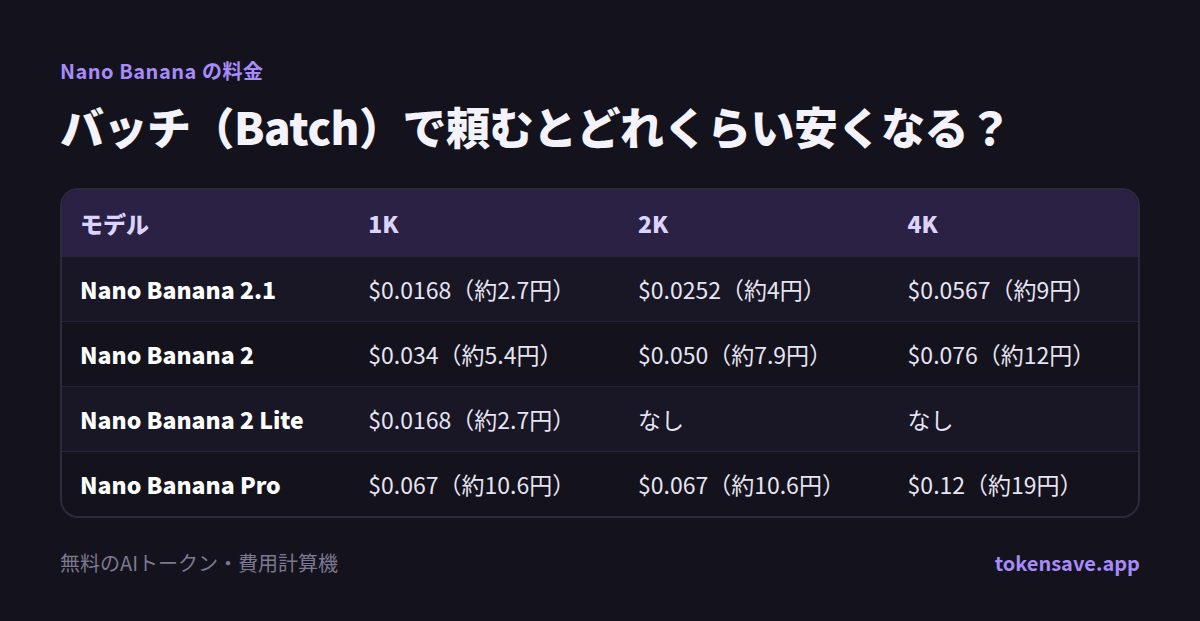
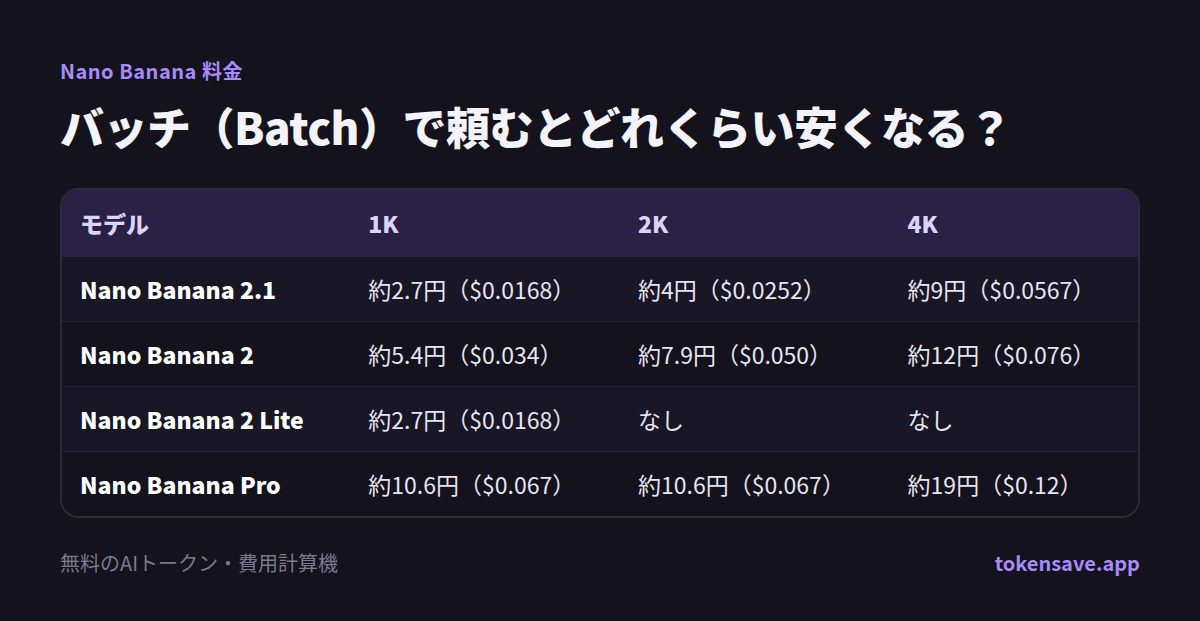
Japanese Nano Banana post: show yen first with USD in parentheses
Claude-Session: https://claude.ai/code/session_0114J8oCXExe9ebHvH1UevYH

diff --git a/ja/blog/nano-banana-ryoukin.html b/ja/blog/nano-banana-ryoukin.html
@@ -138,10 +138,10 @@
 </tr>
 </tbody>
 </table></div>
-<p>初代 Nano Banana（gemini-2.5-flash-image）は公式ドキュメントに「2026年10月2日に終了」と書かれていて、いまは API で使えません。古い記事にある「1枚 $0.039」はこのモデルの料金なので、今の料金とは違います。どのモデルで作った画像にも、Google の SynthID 透かし（目に見えない識別情報）が入ります。</p>
+<p>初代 Nano Banana（gemini-2.5-flash-image）は公式ドキュメントに「2026年10月2日に終了」と書かれていて、いまは API で使えません。古い記事にある「1枚 0.039ドル」はこのモデルの料金なので、今の料金とは違います。どのモデルで作った画像にも、Google の SynthID 透かし（目に見えない識別情報）が入ります。</p>
 <h2>Nano Banana API の料金は1枚いくら？</h2>
 <p><img loading="lazy" width="1200" height="596" alt="Nano Banana API の料金は1枚いくら？: モデル, 0.5K, 1K, 2K, 4K" src="/nano-banana-ryoukin-api-ja.jpg" /></p>
-<p>Google は画像の出力もトークンで計算します。たとえば Nano Banana 2.1 は画像出力100万トークンあたり $30 で、1K（1024×1024）の画像1枚が1,120トークンなので、1枚 $0.0336 になります。こうして換算した1枚あたりの料金は次のとおりです（標準リクエスト）。</p>
+<p>Google は画像の出力もトークンで計算します。たとえば Nano Banana 2.1 は画像出力100万トークンあたり30ドルで、1K（1024×1024）の画像1枚が1,120トークンなので、1枚0.0336ドル（約5.3円）になります。こうして換算した1枚あたりの料金は次のとおりです（標準リクエスト）。</p>
 <div class="overflow-x-auto"><table>
 <thead>
 <tr>
@@ -156,37 +156,37 @@
 <tr>
 <td>Nano Banana 2.1</td>
 <td>なし</td>
-<td>$0.0336（約5.3円）</td>
-<td>$0.0504（約8円）</td>
-<td>$0.113（約18円）</td>
+<td>約5.3円（$0.0336）</td>
+<td>約8円（$0.0504）</td>
+<td>約18円（$0.113）</td>
 </tr>
 <tr>
 <td>Nano Banana 2</td>
-<td>$0.045（約7.1円）</td>
-<td>$0.067（約10.6円）</td>
-<td>$0.101（約16円）</td>
-<td>$0.151（約24円）</td>
+<td>約7.1円（$0.045）</td>
+<td>約10.6円（$0.067）</td>
+<td>約16円（$0.101）</td>
+<td>約24円（$0.151）</td>
 </tr>
 <tr>
 <td>Nano Banana 2 Lite</td>
 <td>なし</td>
-<td>$0.0336（約5.3円）</td>
+<td>約5.3円（$0.0336）</td>
 <td>なし</td>
 <td>なし</td>
 </tr>
 <tr>
 <td>Nano Banana Pro</td>
 <td>なし</td>
-<td>$0.134（約21円）</td>
-<td>$0.134（約21円）</td>
-<td>$0.24（約38円）</td>
+<td>約21円（$0.134）</td>
+<td>約21円（$0.134）</td>
+<td>約38円（$0.24）</td>
 </tr>
 </tbody>
 </table></div>
 <p>注目したい点がいくつかあります。</p>
 <ul>
-<li><strong>2.1 のほうが 2 より安い。</strong> 新しいモデルなのに、1K で $0.067 から $0.0336 に下がりました。そのかわり入力料金は100万トークンあたり $0.50 から $1.50 に上がっています。参考画像を何枚も入れて長い指示を書く編集作業なら、入力の費用も合わせて見ておく必要があります。</li>
-<li><strong>2.1 と Lite は 1K の料金が同じ。</strong> どちらも $0.0336 です。Lite は入力が100万トークンあたり $0.25 と安くて速いものの、1K しか作れず、複数枚の参照や対話しながらの修正には向かないと Google が書いています。</li>
+<li><strong>2.1 のほうが 2 より安い。</strong> 新しいモデルなのに、1K で0.067ドルから0.0336ドルに下がりました。そのかわり入力料金は100万トークンあたり0.50ドルから1.50ドルに上がっています。参考画像を何枚も入れて長い指示を書く編集作業なら、入力の費用も合わせて見ておく必要があります。</li>
+<li><strong>2.1 と Lite は 1K の料金が同じ。</strong> どちらも0.0336ドルです。Lite は入力が100万トークンあたり0.25ドルと安くて速いものの、1K しか作れず、複数枚の参照や対話しながらの修正には向かないと Google が書いています。</li>
 <li><strong>Pro は 1K と 2K が同じ料金。</strong> Pro を使うなら 2K で受け取るほうが得です。</li>
 <li><strong>4K は 2.1 でも1枚約18円。</strong> Web や SNS 用なら 1K〜2K で足りることが多いです。</li>
 </ul>
@@ -205,31 +205,31 @@
 <tbody>
 <tr>
 <td>Nano Banana 2.1</td>
-<td>$0.0168（約2.7円）</td>
-<td>$0.0252（約4円）</td>
-<td>$0.0567（約9円）</td>
+<td>約2.7円（$0.0168）</td>
+<td>約4円（$0.0252）</td>
+<td>約9円（$0.0567）</td>
 </tr>
 <tr>
 <td>Nano Banana 2</td>
-<td>$0.034（約5.4円）</td>
-<td>$0.050（約7.9円）</td>
-<td>$0.076（約12円）</td>
+<td>約5.4円（$0.034）</td>
+<td>約7.9円（$0.050）</td>
+<td>約12円（$0.076）</td>
 </tr>
 <tr>
 <td>Nano Banana 2 Lite</td>
-<td>$0.0168（約2.7円）</td>
+<td>約2.7円（$0.0168）</td>
 <td>なし</td>
 <td>なし</td>
 </tr>
 <tr>
 <td>Nano Banana Pro</td>
-<td>$0.067（約10.6円）</td>
-<td>$0.067（約10.6円）</td>
-<td>$0.12（約19円）</td>
+<td>約10.6円（$0.067）</td>
+<td>約10.6円（$0.067）</td>
+<td>約19円（$0.12）</td>
 </tr>
 </tbody>
 </table></div>
-<p>Nano Banana 2 は Batch なら 0.5K も $0.022（約3.5円）で作れます。商品写真を何百枚、ゲームのアイテムアイコンを大量に、のように、まとめて作ってあとから選ぶ作業なら、まず Batch を検討する価値があります。</p>
+<p>Nano Banana 2 は Batch なら 0.5K も約3.5円（0.022ドル）で作れます。商品写真を何百枚、ゲームのアイテムアイコンを大量に、のように、まとめて作ってあとから選ぶ作業なら、まず Batch を検討する価値があります。</p>
 <h2>Nano Banana の API は無料で使える？</h2>
 <p>API で無料で使う方法はありません。Google の料金表では、Nano Banana 2.1、2、2 Lite、Pro のすべてで無料枠（Free tier）の欄が「利用不可」になっています。テキストモデルのように API キーをもらうだけで無料で画像を作ることはできず、お支払い情報を登録した有料枠でだけ呼び出せます。そのかわり、有料枠で送った内容は Google のサービス改善には使われません。</p>
 <p>無料で試せる方法は2つです。</p>
@@ -373,26 +373,26 @@
 <tr>
 <td>ブログのアイキャッチ</td>
 <td>月30枚、1K</td>
-<td>$1.01（約160円）</td>
-<td>$4.02（約640円）</td>
+<td>約160円（$1.01）</td>
+<td>約640円（$4.02）</td>
 </tr>
 <tr>
 <td>ネットショップの商品画像</td>
 <td>200枚、2K</td>
-<td>$10.08（約1,590円）</td>
-<td>$26.80（約4,230円）</td>
+<td>約1,590円（$10.08）</td>
+<td>約4,230円（$26.80）</td>
 </tr>
 <tr>
 <td>2D ゲームの絵</td>
 <td>86枚 × 3回生成、1K</td>
-<td>$8.67（約1,370円）</td>
-<td>$34.57（約5,460円）</td>
+<td>約1,370円（$8.67）</td>
+<td>約5,460円（$34.57）</td>
 </tr>
 <tr>
 <td>1,000枚</td>
 <td>1K</td>
-<td>$33.60（約5,310円）</td>
-<td>$134.00（約21,170円）</td>
+<td>約5,310円（$33.60）</td>
+<td>約21,170円（$134.00）</td>
 </tr>
 </tbody>
 </table></div>
@@ -412,7 +412,7 @@
 <ul>
 <li><strong>最初は 1K で構図を決め、気に入ったものだけ大きく：</strong> 4K は 2.1 でも 1K より約236%高くなります。ラフは 1K で何枚か作り、使うものだけ 2K・4K で作り直します。</li>
 <li><strong>急がないなら Batch：</strong> 同じ画像を半額で受け取れます。</li>
-<li><strong>修正は作り直しではなく会話で：</strong> 2.1 は対話しながらの修正が得意なので、気に入らない部分だけ言葉で直すと作り直す回数が減ります。ただし会話が長くなると入力トークン（100万トークンあたり $1.50）が増えるので、長引かせすぎないほうがいいです。</li>
+<li><strong>修正は作り直しではなく会話で：</strong> 2.1 は対話しながらの修正が得意なので、気に入らない部分だけ言葉で直すと作り直す回数が減ります。ただし会話が長くなると入力トークン（100万トークンあたり1.50ドル）が増えるので、長引かせすぎないほうがいいです。</li>
 <li><strong>文字やレイアウトを厳密に守らせたい最終版だけ Pro：</strong> 日本語の書体指定のように、2.1 で守れなかった部分があるときに使います。</li>
 </ul>
 <h2>どの Nano Banana を選べばいい？</h2>
@@ -423,7 +423,7 @@
 <li><strong>Nano Banana 2 を使っていたプロジェクト：</strong> 公式ドキュメントに終了日はまだありませんが、Google が1つ前の世代に分類しているので、料金も安い 2.1 へ移るのがおすすめです。モデル ID を gemini-nano-banana-2.1 に変えるだけで済むか、入力の費用が増えないかは先に確かめてください。</li>
 </ul>
 <h2>よくある質問</h2>
-<p><strong>Nano Banana 2.1 は1枚いくら？</strong> 標準リクエストで 1K $0.0336（約5.3円）、2K $0.0504（約8円）、4K $0.113（約18円）です。Batch なら半額です。</p>
+<p><strong>Nano Banana 2.1 は1枚いくら？</strong> 標準リクエストで 1K 約5.3円（0.0336ドル）、2K 約8円（0.0504ドル）、4K 約18円（0.113ドル）です。Batch なら半額です。</p>
 <p><strong>Nano Banana の API に無料枠はある？</strong> ありません。すべての Nano Banana モデルで無料枠の欄が「利用不可」です。無料で試すなら Gemini アプリか Google AI Studio を使います。</p>
 <p><strong>Gemini の無料版で画像は何枚まで作れる？</strong> Google は枚数を公開していません。無料アカウントは「標準の上限」で、5時間ごとに回復し、週の上限があります。画像生成は会話より多く使用量を消費します。</p>
 <p><strong>初代 Nano Banana（Gemini 2.5 Flash Image）はもう使えない？</strong> API では2026年10月2日に終了しました。gemini-2.5-flash-image を使っていたコードはエラーになるので変更が必要です。終了の案内には Nano Banana 2 か 2 Lite へ移るよう書かれていて、これから始めるなら Google がすすめる 2.1 のほうが料金も安いです。</p>

diff --git a/_source/src/blog/nbprice-ja.html b/_source/src/blog/nbprice-ja.html
@@ -35,10 +35,10 @@
 </tr>
 </tbody>
 </table></div>
-<p>初代 Nano Banana（gemini-2.5-flash-image）は公式ドキュメントに「2026年10月2日に終了」と書かれていて、いまは API で使えません。古い記事にある「1枚 $0.039」はこのモデルの料金なので、今の料金とは違います。どのモデルで作った画像にも、Google の SynthID 透かし（目に見えない識別情報）が入ります。</p>
+<p>初代 Nano Banana（gemini-2.5-flash-image）は公式ドキュメントに「2026年10月2日に終了」と書かれていて、いまは API で使えません。古い記事にある「1枚 0.039ドル」はこのモデルの料金なので、今の料金とは違います。どのモデルで作った画像にも、Google の SynthID 透かし（目に見えない識別情報）が入ります。</p>
 <h2>Nano Banana API の料金は1枚いくら？</h2>
 <p><img loading="lazy" width="1200" height="596" alt="Nano Banana API の料金は1枚いくら？: モデル, 0.5K, 1K, 2K, 4K" src="/nano-banana-ryoukin-api-ja.jpg" /></p>
-<p>Google は画像の出力もトークンで計算します。たとえば Nano Banana 2.1 は画像出力100万トークンあたり $30 で、1K（1024×1024）の画像1枚が1,120トークンなので、1枚 $0.0336 になります。こうして換算した1枚あたりの料金は次のとおりです（標準リクエスト）。</p>
+<p>Google は画像の出力もトークンで計算します。たとえば Nano Banana 2.1 は画像出力100万トークンあたり30ドルで、1K（1024×1024）の画像1枚が1,120トークンなので、1枚0.0336ドル（約5.3円）になります。こうして換算した1枚あたりの料金は次のとおりです（標準リクエスト）。</p>
 <div class="overflow-x-auto"><table>
 <thead>
 <tr>
@@ -53,37 +53,37 @@
 <tr>
 <td>Nano Banana 2.1</td>
 <td>なし</td>
-<td>$0.0336（約5.3円）</td>
-<td>$0.0504（約8円）</td>
-<td>$0.113（約18円）</td>
+<td>約5.3円（$0.0336）</td>
+<td>約8円（$0.0504）</td>
+<td>約18円（$0.113）</td>
 </tr>
 <tr>
 <td>Nano Banana 2</td>
-<td>$0.045（約7.1円）</td>
-<td>$0.067（約10.6円）</td>
-<td>$0.101（約16円）</td>
-<td>$0.151（約24円）</td>
+<td>約7.1円（$0.045）</td>
+<td>約10.6円（$0.067）</td>
+<td>約16円（$0.101）</td>
+<td>約24円（$0.151）</td>
 </tr>
 <tr>
 <td>Nano Banana 2 Lite</td>
 <td>なし</td>
-<td>$0.0336（約5.3円）</td>
+<td>約5.3円（$0.0336）</td>
 <td>なし</td>
 <td>なし</td>
 </tr>
 <tr>
 <td>Nano Banana Pro</td>
 <td>なし</td>
-<td>$0.134（約21円）</td>
-<td>$0.134（約21円）</td>
-<td>$0.24（約38円）</td>
+<td>約21円（$0.134）</td>
+<td>約21円（$0.134）</td>
+<td>約38円（$0.24）</td>
 </tr>
 </tbody>
 </table></div>
 <p>注目したい点がいくつかあります。</p>
 <ul>
-<li><strong>2.1 のほうが 2 より安い。</strong> 新しいモデルなのに、1K で $0.067 から $0.0336 に下がりました。そのかわり入力料金は100万トークンあたり $0.50 から $1.50 に上がっています。参考画像を何枚も入れて長い指示を書く編集作業なら、入力の費用も合わせて見ておく必要があります。</li>
-<li><strong>2.1 と Lite は 1K の料金が同じ。</strong> どちらも $0.0336 です。Lite は入力が100万トークンあたり $0.25 と安くて速いものの、1K しか作れず、複数枚の参照や対話しながらの修正には向かないと Google が書いています。</li>
+<li><strong>2.1 のほうが 2 より安い。</strong> 新しいモデルなのに、1K で0.067ドルから0.0336ドルに下がりました。そのかわり入力料金は100万トークンあたり0.50ドルから1.50ドルに上がっています。参考画像を何枚も入れて長い指示を書く編集作業なら、入力の費用も合わせて見ておく必要があります。</li>
+<li><strong>2.1 と Lite は 1K の料金が同じ。</strong> どちらも0.0336ドルです。Lite は入力が100万トークンあたり0.25ドルと安くて速いものの、1K しか作れず、複数枚の参照や対話しながらの修正には向かないと Google が書いています。</li>
 <li><strong>Pro は 1K と 2K が同じ料金。</strong> Pro を使うなら 2K で受け取るほうが得です。</li>
 <li><strong>4K は 2.1 でも1枚約18円。</strong> Web や SNS 用なら 1K〜2K で足りることが多いです。</li>
 </ul>
@@ -102,31 +102,31 @@
 <tbody>
 <tr>
 <td>Nano Banana 2.1</td>
-<td>$0.0168（約2.7円）</td>
-<td>$0.0252（約4円）</td>
-<td>$0.0567（約9円）</td>
+<td>約2.7円（$0.0168）</td>
+<td>約4円（$0.0252）</td>
+<td>約9円（$0.0567）</td>
 </tr>
 <tr>
 <td>Nano Banana 2</td>
-<td>$0.034（約5.4円）</td>
-<td>$0.050（約7.9円）</td>
-<td>$0.076（約12円）</td>
+<td>約5.4円（$0.034）</td>
+<td>約7.9円（$0.050）</td>
+<td>約12円（$0.076）</td>
 </tr>
 <tr>
 <td>Nano Banana 2 Lite</td>
-<td>$0.0168（約2.7円）</td>
+<td>約2.7円（$0.0168）</td>
 <td>なし</td>
 <td>なし</td>
 </tr>
 <tr>
 <td>Nano Banana Pro</td>
-<td>$0.067（約10.6円）</td>
-<td>$0.067（約10.6円）</td>
-<td>$0.12（約19円）</td>
+<td>約10.6円（$0.067）</td>
+<td>約10.6円（$0.067）</td>
+<td>約19円（$0.12）</td>
 </tr>
 </tbody>
 </table></div>
-<p>Nano Banana 2 は Batch なら 0.5K も $0.022（約3.5円）で作れます。商品写真を何百枚、ゲームのアイテムアイコンを大量に、のように、まとめて作ってあとから選ぶ作業なら、まず Batch を検討する価値があります。</p>
+<p>Nano Banana 2 は Batch なら 0.5K も約3.5円（0.022ドル）で作れます。商品写真を何百枚、ゲームのアイテムアイコンを大量に、のように、まとめて作ってあとから選ぶ作業なら、まず Batch を検討する価値があります。</p>
 <h2>Nano Banana の API は無料で使える？</h2>
 <p>API で無料で使う方法はありません。Google の料金表では、Nano Banana 2.1、2、2 Lite、Pro のすべてで無料枠（Free tier）の欄が「利用不可」になっています。テキストモデルのように API キーをもらうだけで無料で画像を作ることはできず、お支払い情報を登録した有料枠でだけ呼び出せます。そのかわり、有料枠で送った内容は Google のサービス改善には使われません。</p>
 <p>無料で試せる方法は2つです。</p>
@@ -270,26 +270,26 @@
 <tr>
 <td>ブログのアイキャッチ</td>
 <td>月30枚、1K</td>
-<td>$1.01（約160円）</td>
-<td>$4.02（約640円）</td>
+<td>約160円（$1.01）</td>
+<td>約640円（$4.02）</td>
 </tr>
 <tr>
 <td>ネットショップの商品画像</td>
 <td>200枚、2K</td>
-<td>$10.08（約1,590円）</td>
-<td>$26.80（約4,230円）</td>
+<td>約1,590円（$10.08）</td>
+<td>約4,230円（$26.80）</td>
 </tr>
 <tr>
 <td>2D ゲームの絵</td>
 <td>86枚 × 3回生成、1K</td>
-<td>$8.67（約1,370円）</td>
-<td>$34.57（約5,460円）</td>
+<td>約1,370円（$8.67）</td>
+<td>約5,460円（$34.57）</td>
 </tr>
 <tr>
 <td>1,000枚</td>
 <td>1K</td>
-<td>$33.60（約5,310円）</td>
-<td>$134.00（約21,170円）</td>
+<td>約5,310円（$33.60）</td>
+<td>約21,170円（$134.00）</td>
 </tr>
 </tbody>
 </table></div>
@@ -309,7 +309,7 @@
 <ul>
 <li><strong>最初は 1K で構図を決め、気に入ったものだけ大きく：</strong> 4K は 2.1 でも 1K より約236%高くなります。ラフは 1K で何枚か作り、使うものだけ 2K・4K で作り直します。</li>
 <li><strong>急がないなら Batch：</strong> 同じ画像を半額で受け取れます。</li>
-<li><strong>修正は作り直しではなく会話で：</strong> 2.1 は対話しながらの修正が得意なので、気に入らない部分だけ言葉で直すと作り直す回数が減ります。ただし会話が長くなると入力トークン（100万トークンあたり $1.50）が増えるので、長引かせすぎないほうがいいです。</li>
+<li><strong>修正は作り直しではなく会話で：</strong> 2.1 は対話しながらの修正が得意なので、気に入らない部分だけ言葉で直すと作り直す回数が減ります。ただし会話が長くなると入力トークン（100万トークンあたり1.50ドル）が増えるので、長引かせすぎないほうがいいです。</li>
 <li><strong>文字やレイアウトを厳密に守らせたい最終版だけ Pro：</strong> 日本語の書体指定のように、2.1 で守れなかった部分があるときに使います。</li>
 </ul>
 <h2>どの Nano Banana を選べばいい？</h2>
@@ -320,7 +320,7 @@
 <li><strong>Nano Banana 2 を使っていたプロジェクト：</strong> 公式ドキュメントに終了日はまだありませんが、Google が1つ前の世代に分類しているので、料金も安い 2.1 へ移るのがおすすめです。モデル ID を gemini-nano-banana-2.1 に変えるだけで済むか、入力の費用が増えないかは先に確かめてください。</li>
 </ul>
 <h2>よくある質問</h2>
-<p><strong>Nano Banana 2.1 は1枚いくら？</strong> 標準リクエストで 1K $0.0336（約5.3円）、2K $0.0504（約8円）、4K $0.113（約18円）です。Batch なら半額です。</p>
+<p><strong>Nano Banana 2.1 は1枚いくら？</strong> 標準リクエストで 1K 約5.3円（0.0336ドル）、2K 約8円（0.0504ドル）、4K 約18円（0.113ドル）です。Batch なら半額です。</p>
 <p><strong>Nano Banana の API に無料枠はある？</strong> ありません。すべての Nano Banana モデルで無料枠の欄が「利用不可」です。無料で試すなら Gemini アプリか Google AI Studio を使います。</p>
 <p><strong>Gemini の無料版で画像は何枚まで作れる？</strong> Google は枚数を公開していません。無料アカウントは「標準の上限」で、5時間ごとに回復し、週の上限があります。画像生成は会話より多く使用量を消費します。</p>
 <p><strong>初代 Nano Banana（Gemini 2.5 Flash Image）はもう使えない？</strong> API では2026年10月2日に終了しました。gemini-2.5-flash-image を使っていたコードはエラーになるので変更が必要です。終了の案内には Nano Banana 2 か 2 Lite へ移るよう書かれていて、これから始めるなら Google がすすめる 2.1 のほうが料金も安いです。</p>
